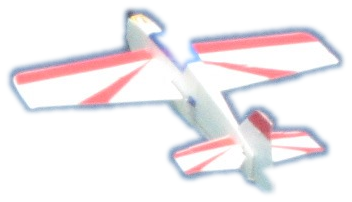
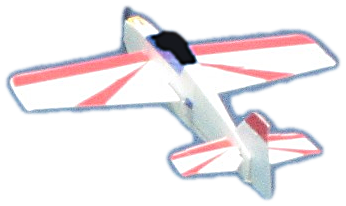
Hero cut-out: clean mask, black canopy, native size

diff --git a/index.html b/index.html
@@ -57,7 +57,7 @@
     <div class="hero__sky" aria-hidden="true"></div>
     <div class="hero__clouds" aria-hidden="true"></div>
 
-    <img class="hero__plane" src="img/hero-plane.png" alt="" width="352" height="202">
+    <img class="hero__plane" src="img/hero-plane.png" alt="" width="346" height="206">
 
     <button class="hero__arrow hero__arrow--prev" aria-label="Попередній слайд">&#8249;</button>
     <button class="hero__arrow hero__arrow--next" aria-label="Наступний слайд">&#8250;</button>

diff --git a/style.css b/style.css
@@ -144,7 +144,7 @@ button { font: inherit; background: none; border: 0; cursor: pointer; color: inh
   position: absolute;
   right: 5%;
   top: 44%;
-  width: clamp(260px, 28vw, 520px);
+  width: clamp(220px, 22vw, 346px);   /* не більше натурального розміру */
   height: auto;
   filter: drop-shadow(0 18px 24px rgba(10, 40, 70, 0.35));
   pointer-events: none;
